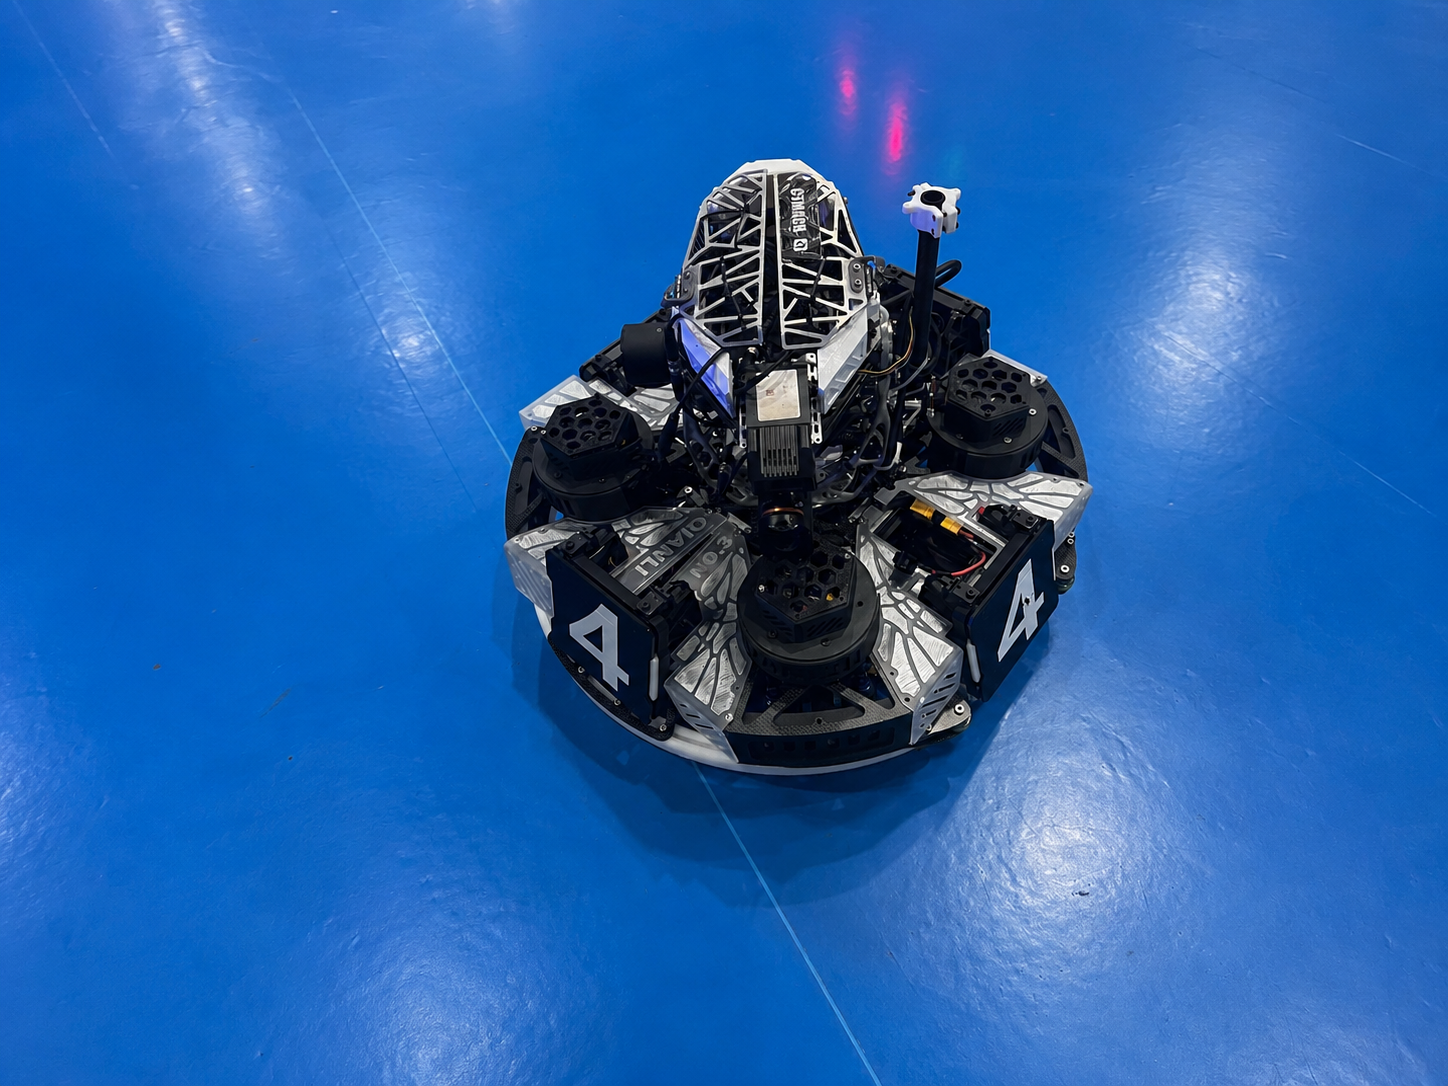
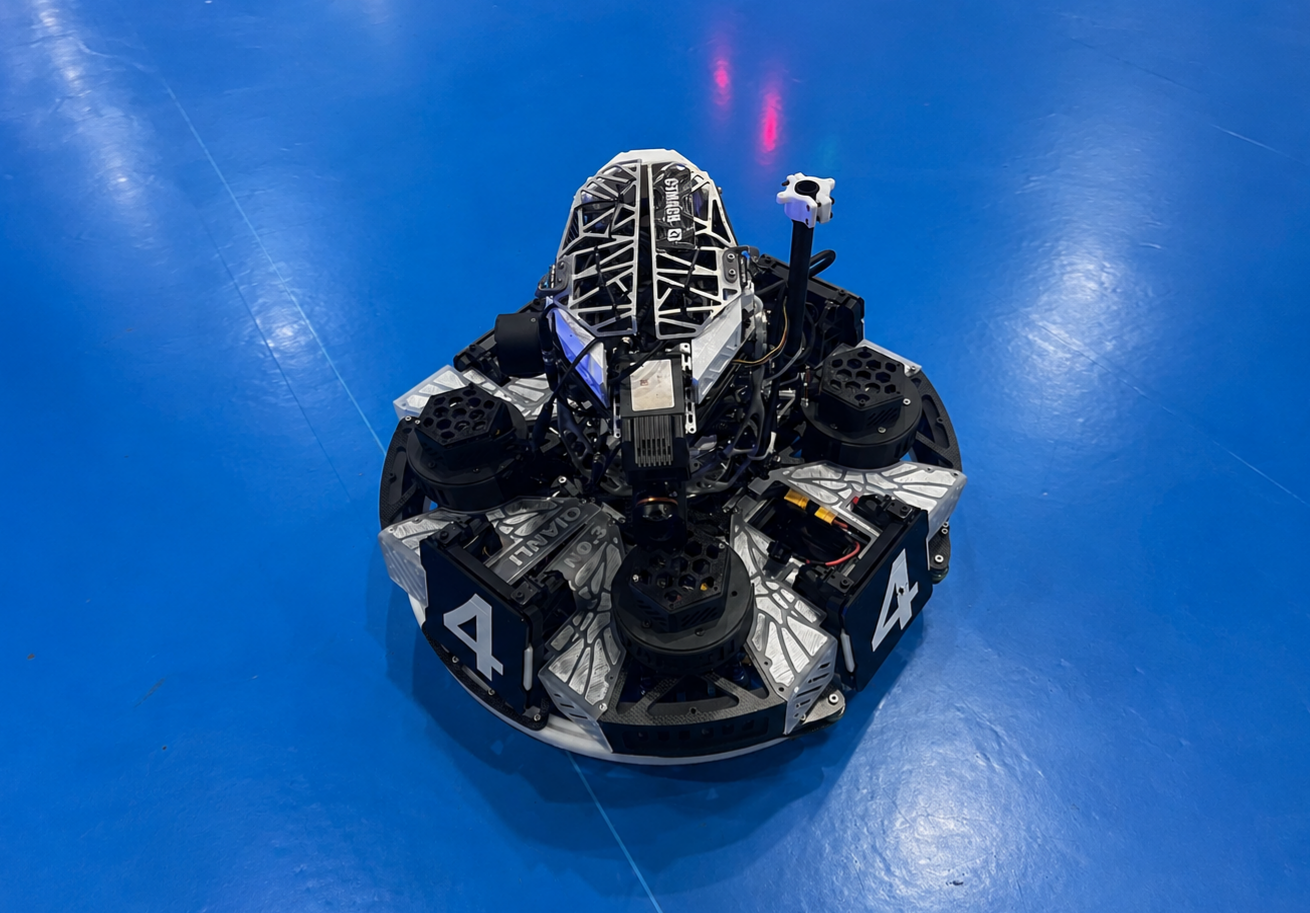
Updated

diff --git a/projects.html b/projects.html
@@ -70,7 +70,16 @@
             <button class="project-carousel-button project-carousel-prev" type="button" aria-label="上一页" disabled></button>
             <div class="project-carousel" aria-label="整机建设项目">
               <article class="project-card">
-                <figure class="project-card-media"><span>25 赛季无人机</span></figure>
+                <figure class="project-card-media"><img src="assets/images/project/robot/四摩擦英雄.jpg" alt="四摩擦英雄" loading="lazy" /><span>四摩擦英雄</span></figure>
+                <div class="project-card-body">
+                  <p class="project-card-meta">ROBOT</p>
+                  <h2>四摩擦英雄</h2>
+                  <p class="project-people"><span class="person-badge badge-lead">樊亦媛</span></p>
+                  <span class="project-card-year">2026</span>
+                </div>
+              </article>
+              <article class="project-card">
+                <figure class="project-card-media"><img src="assets/images/project/robot/25无人机.jpg" alt="25 赛季无人机" loading="lazy" /><span>25 赛季无人机</span></figure>
                 <div class="project-card-body">
                   <p class="project-card-meta">ROBOT</p>
                   <h2>25 赛季无人机</h2>
@@ -79,7 +88,7 @@
                 </div>
               </article>
               <article class="project-card">
-                <figure class="project-card-media"><span>串联腿步兵</span></figure>
+                <figure class="project-card-media"><img src="assets/images/project/robot/串联腿步兵.jpg" alt="串联腿步兵" loading="lazy" /><span>串联腿步兵</span></figure>
                 <div class="project-card-body">
                   <p class="project-card-meta">ROBOT</p>
                   <h2>串联腿步兵</h2>
@@ -106,7 +115,7 @@
                 </div>
               </article>
               <article class="project-card">
-                <figure class="project-card-media"><img src="assets/images/project/robot/24赛季舵轮.jpg" alt="24 分区赛舵轮步兵" loading="lazy" /><span>24 分区赛舵轮步兵</span></figure>
+                <figure class="project-card-media"><img src="assets/images/project/robot/24分区赛舵轮.jpg" alt="24 分区赛舵轮步兵" loading="lazy" /><span>24 分区赛舵轮步兵</span></figure>
                 <div class="project-card-body">
                   <p class="project-card-meta">ROBOT</p>
                   <h2>24 分区赛舵轮步兵</h2>
@@ -115,7 +124,7 @@
                 </div>
               </article>
               <article class="project-card">
-                <figure class="project-card-media"><img src="assets/images/project/robot/24赛季舵轮.jpg" alt="24 国赛舵轮" loading="lazy" /><span>24 国赛舵轮</span></figure>
+                <figure class="project-card-media"><img src="assets/images/project/robot/24复活赛舵轮.jpg" alt="24 国赛舵轮" loading="lazy" /><span>24 国赛舵轮</span></figure>
                 <div class="project-card-body">
                   <p class="project-card-meta">ROBOT</p>
                   <h2>24 国赛舵轮</h2>
@@ -176,7 +185,7 @@
             <button class="project-carousel-button project-carousel-prev" type="button" aria-label="上一页" disabled></button>
             <div class="project-carousel" aria-label="模块支线建设项目">
               <article class="project-card">
-                <figure class="project-card-media"><span>四摩擦 42mm</span></figure>
+                <figure class="project-card-media"><img src="assets/images/project/robot/四摩擦英雄.jpg" alt="四摩擦 42mm 发射机构" loading="lazy" /><span>四摩擦 42mm</span></figure>
                 <div class="project-card-body">
                   <p class="project-card-meta">MODULE</p>
                   <h2>四摩擦 42mm 发射机构</h2>
@@ -185,16 +194,16 @@
                 </div>
               </article>
               <article class="project-card">
-                <figure class="project-card-media"><span>自适应夹爪</span></figure>
+                <figure class="project-card-media"><img src="assets/images/project/module/工程自适应夹爪.png" alt="工程自适应夹爪" loading="lazy" /><span>自适应夹爪</span></figure>
                 <div class="project-card-body">
                   <p class="project-card-meta">MODULE</p>
                   <h2>工程自适应夹爪</h2>
-                  <p class="project-people"><span class="person-badge badge-lead">赵乙璠</span></p>
+                  <p class="project-people"><span class="person-badge badge-lead">赵乙璠</span><span class="person-badge badge-member">陈夏菲</span></p>
                   <span class="project-card-year">2026</span>
                 </div>
               </article>
               <article class="project-card">
-                <figure class="project-card-media"><span>能量单元</span></figure>
+                <figure class="project-card-media"><img src="assets/images/project/module/工程存矿单元.jpg" alt="能量单元存储机构" loading="lazy" /><span>能量单元</span></figure>
                 <div class="project-card-body">
                   <p class="project-card-meta">MODULE</p>
                   <h2>能量单元存储机构</h2>
@@ -203,7 +212,7 @@
                 </div>
               </article>
               <article class="project-card">
-                <figure class="project-card-media"><span>登岛底盘</span></figure>
+                <figure class="project-card-media"><img src="assets/images/project/module/小狗登岛底盘.jpg" alt="小狗登岛底盘" loading="lazy" /><span>登岛底盘</span></figure>
                 <div class="project-card-body">
                   <p class="project-card-meta">MODULE</p>
                   <h2>小狗登岛底盘</h2>
@@ -230,7 +239,7 @@
                 </div>
               </article>
               <article class="project-card">
-                <figure class="project-card-media"><span>3508 舵轮</span></figure>
+                <figure class="project-card-media"><img src="assets/images/project/module/3508舵轮模块.jpg" alt="3508 舵轮模组" loading="lazy" /><span>3508 舵轮</span></figure>
                 <div class="project-card-body">
                   <p class="project-card-meta">MODULE</p>
                   <h2>3508 舵轮模组</h2>
@@ -309,12 +318,12 @@
             <button class="project-carousel-button project-carousel-prev" type="button" aria-label="上一页" disabled></button>
             <div class="project-carousel" aria-label="基础设施建设项目">
               <article class="project-card">
-                <figure class="project-card-media"><span>科技核心兑换站</span></figure>
+                <figure class="project-card-media"><img src="assets/images/project/infrastructure/科技核心.jpg" alt="科技核心兑换站" loading="lazy" /><span>科技核心兑换站</span></figure>
                 <div class="project-card-body">
                   <p class="project-card-meta">INFRASTRUCTURE</p>
                   <h2>科技核心兑换站</h2>
                   <p>2026 赛季科技核心兑换站设计与建设。</p>
-                  <p class="project-people"><span class="person-badge badge-member">高阳洋</span><span class="person-badge badge-member">张铭珂</span></p>
+                  <p class="project-people"><span class="person-badge badge-lead">高阳洋</span><span class="person-badge badge-member">张铭珂</span></p>
                   <span class="project-card-year">2026</span>
                 </div>
               </article>
@@ -324,37 +333,37 @@
                   <p class="project-card-meta">INFRASTRUCTURE</p>
                   <h2>折叠便携基地</h2>
                   <p>2026 赛季折叠便携基地设计与建设。</p>
-                  <p class="project-people"><span class="person-badge badge-member">陈夏菲</span></p>
+                  <p class="project-people"><span class="person-badge badge-lead">陈夏菲</span></p>
                   <span class="project-card-year">2026</span>
                 </div>
               </article>
               <article class="project-card">
-                <figure class="project-card-media"><span>工程资源岛</span></figure>
+                <figure class="project-card-media"><img src="assets/images/project/infrastructure/资源岛.jpg" alt="26 赛季工程资源岛" loading="lazy" /><span>工程资源岛</span></figure>
                 <div class="project-card-body">
                   <p class="project-card-meta">INFRASTRUCTURE</p>
                   <h2>26 赛季工程资源岛</h2>
                   <p>2026 赛季工程资源岛设计与建设。</p>
-                  <p class="project-people"><span class="person-badge badge-member">陈夏菲</span></p>
+                  <p class="project-people"><span class="person-badge badge-lead">陈夏菲</span></p>
                   <span class="project-card-year">2026</span>
                 </div>
               </article>
               <article class="project-card">
-                <figure class="project-card-media"><span>能量机关</span></figure>
+                <figure class="project-card-media"><img src="assets/images/project/infrastructure/能量机关.jpg" alt="能量机关" loading="lazy" /><span>能量机关</span></figure>
                 <div class="project-card-body">
                   <p class="project-card-meta">INFRASTRUCTURE</p>
                   <h2>能量机关</h2>
                   <p>2025 赛季能量机关相关训练与测试设施。</p>
-                  <p class="project-people"><span class="person-badge badge-member">全锐</span></p>
+                  <p class="project-people"><span class="person-badge badge-lead">全锐</span></p>
                   <span class="project-card-year">2025</span>
                 </div>
               </article>
               <article class="project-card">
-                <figure class="project-card-media"><span>靶车</span></figure>
+                <figure class="project-card-media"><img src="assets/images/project/infrastructure/靶车.jpg" alt="靶车" loading="lazy" /><span>靶车</span></figure>
                 <div class="project-card-body">
                   <p class="project-card-meta">INFRASTRUCTURE</p>
                   <h2>靶车</h2>
                   <p>2025 赛季用于射击、识别或测试任务的靶车平台。</p>
-                  <p class="project-people"><span class="person-badge badge-member">汪沛宇</span><span class="person-badge badge-member">张博洋</span><span class="person-badge badge-member">全锐</span><span class="person-badge badge-member">张郭浩</span></p>
+                  <p class="project-people"><span class="person-badge badge-lead">汪沛宇</span><span class="person-badge badge-member">张博洋</span><span class="person-badge badge-member">全锐</span><span class="person-badge badge-member">张郭浩</span></p>
                   <span class="project-card-year">2025</span>
                 </div>
               </article>
@@ -364,26 +373,18 @@
                   <p class="project-card-meta">INFRASTRUCTURE</p>
                   <h2>训练赛场</h2>
                   <p>2025 赛季训练赛场搭建与维护。</p>
-                  <p class="project-people"><span class="person-badge badge-member">汪沛宇</span></p>
+                  <p class="project-people"><span class="person-badge badge-lead">汪沛宇</span></p>
                   <span class="project-card-year">2025</span>
                 </div>
               </article>
               <article class="project-card">
-                <figure class="project-card-media"><span>前哨站</span></figure>
+                <figure class="project-card-media"><img src="assets/images/project/infrastructure/前哨站.jpg" alt="前哨站" loading="lazy" /><span>前哨站</span></figure>
                 <div class="project-card-body">
                   <p class="project-card-meta">INFRASTRUCTURE</p>
                   <h2>前哨站</h2>
-                  <p>2024 赛季前哨站相关训练与测试设施。</p>
-                  <span class="project-card-year">2024</span>
-                </div>
-              </article>
-              <article class="project-card">
-                <figure class="project-card-media"><span>基地</span></figure>
-                <div class="project-card-body">
-                  <p class="project-card-meta">INFRASTRUCTURE</p>
-                  <h2>基地</h2>
-                  <p>2024 赛季基地相关训练与测试设施。</p>
-                  <span class="project-card-year">2024</span>
+                  <p>2024-2026 赛季前哨站相关训练与测试设施。</p>
+                  <p class="project-people"><span class="person-badge badge-lead">张博洋</span><span class="person-badge badge-member">徐进</span></p>
+                  <span class="project-card-year">2024-2026</span>
                 </div>
               </article>
             </div>
@@ -407,7 +408,7 @@
             <button class="project-carousel-button project-carousel-prev" type="button" aria-label="上一页" disabled></button>
             <div class="project-carousel" aria-label="培训工作建设项目">
               <article class="project-card">
-                <figure class="project-card-media"><span>千里博物馆</span></figure>
+                <figure class="project-card-media"><img src="assets/images/project/training/博物馆.jpg" alt="千里博物馆-标本库" loading="lazy" /><span>千里博物馆</span></figure>
                 <div class="project-card-body">
                   <p class="project-card-meta">CULTURE</p>
                   <h2>千里博物馆-标本库</h2>
@@ -416,7 +417,7 @@
                 </div>
               </article>
               <article class="project-card">
-                <figure class="project-card-media"><span>日拱一卒</span></figure>
+                <figure class="project-card-media"><img src="assets/images/project/training/日拱一卒.png" alt="日供一卒 概念自主打卡" loading="lazy" /><span>日供一卒</span></figure>
                 <div class="project-card-body">
                   <p class="project-card-meta">CULTURE</p>
                   <h2>日拱一卒 概念自主打卡</h2>
@@ -425,7 +426,7 @@
                 </div>
               </article>
               <article class="project-card">
-                <figure class="project-card-media"><span>Pivot Wiki</span></figure>
+                <figure class="project-card-media"><img src="assets/images/project/training/Pivot Wiki.jpg" alt="Pivot Wiki 知识库网站" loading="lazy" /><span>Pivot Wiki</span></figure>
                 <div class="project-card-body">
                   <p class="project-card-meta">CULTURE</p>
                   <h2>Pivot Wiki 知识库网站</h2>
@@ -434,7 +435,7 @@
                 </div>
               </article>
               <article class="project-card">
-                <figure class="project-card-media"><span>早期知识库</span></figure>
+                <figure class="project-card-media"><img src="assets/images/project/training/老机械组教程网站.jpg" alt="早期机械组知识库网站" loading="lazy" /><span>早期知识库</span></figure>
                 <div class="project-card-body">
                   <p class="project-card-meta">CULTURE</p>
                   <h2>早期机械组知识库网站</h2>
@@ -444,7 +445,7 @@
                 </div>
               </article>
               <article class="project-card">
-                <figure class="project-card-media"><span>分享沙龙</span></figure>
+                <figure class="project-card-media"><img src="assets/images/project/training/前沿分享沙龙.jpg" alt="工程产品分析/前沿分享沙龙" loading="lazy" /><span>分享沙龙</span></figure>
                 <div class="project-card-body">
                   <p class="project-card-meta">CULTURE</p>
                   <h2>工程产品分析/前沿分享沙龙</h2>
@@ -453,7 +454,7 @@
                 </div>
               </article>
               <article class="project-card">
-                <figure class="project-card-media"><span>培训架构</span></figure>
+                <figure class="project-card-media"><img src="assets/images/project/training/培训基础架构.png" alt="基础培训架构" loading="lazy" /><span>培训架构</span></figure>
                 <div class="project-card-body">
                   <p class="project-card-meta">CULTURE</p>
                   <h2>基础培训架构</h2>
@@ -487,7 +488,7 @@
                 </div>
               </article>
               <article class="project-card">
-                <figure class="project-card-media"><span>网球机器人</span></figure>
+                <figure class="project-card-media"><img src="assets/images/project/extra/网球机.jpg" alt="网球机器人" loading="lazy" /><span>网球机器人</span></figure>
                 <div class="project-card-body">
                   <p class="project-card-meta">EXTRA</p>
                   <h2>网球机器人</h2>
@@ -496,11 +497,11 @@
                 </div>
               </article>
               <article class="project-card">
-                <figure class="project-card-media"><span>机器鱼</span></figure>
+                <figure class="project-card-media"><img src="assets/images/project/extra/摩天轮螺丝收纳盒.jpg" alt="摩天轮螺丝收纳盒" loading="lazy" /><span>摩天轮螺丝收纳盒</span></figure>
                 <div class="project-card-body">
                   <p class="project-card-meta">EXTRA</p>
-                  <h2>机器鱼</h2>
-                  <p>围绕课设、毕设、仿生机器人或个人兴趣展开的番外项目。</p>
+                  <h2>摩天轮螺丝收纳盒</h2>
+                  <p>围绕宣传周边、个人兴趣和 3D 打印实践展开的番外项目。</p>
                   <span class="project-card-year">番外</span>
                 </div>
               </article>